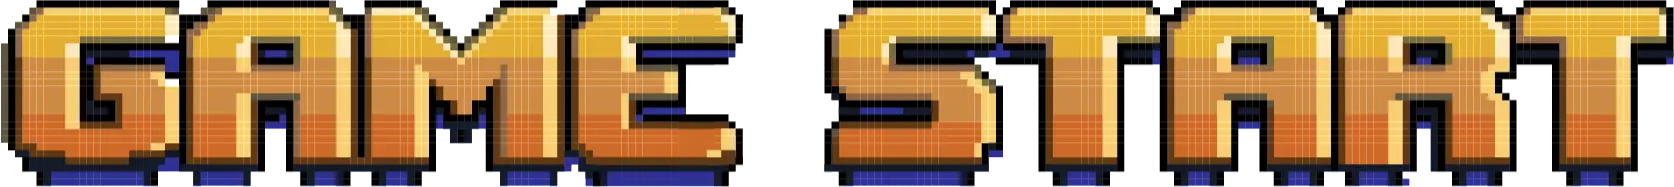
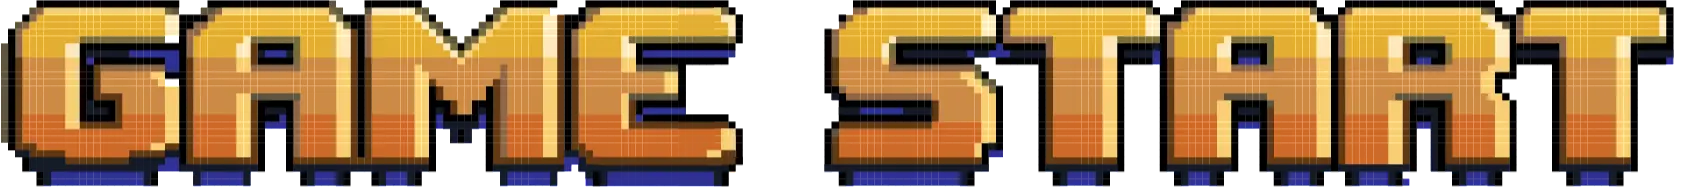
game img size fix

diff --git a/src/components/game/GameStartPageStyle.js b/src/components/game/GameStartPageStyle.js
@@ -71,7 +71,7 @@ export const gameStartText = styled.div`
 `;
 
 export const gameStartButton = styled.button`
-  width: 309.28px;
+  width: 315.28px;
   height: 35.09px;
   background-size: cover;
   background-image: url("../../img/gameCommonImg/gameStart.webp");
